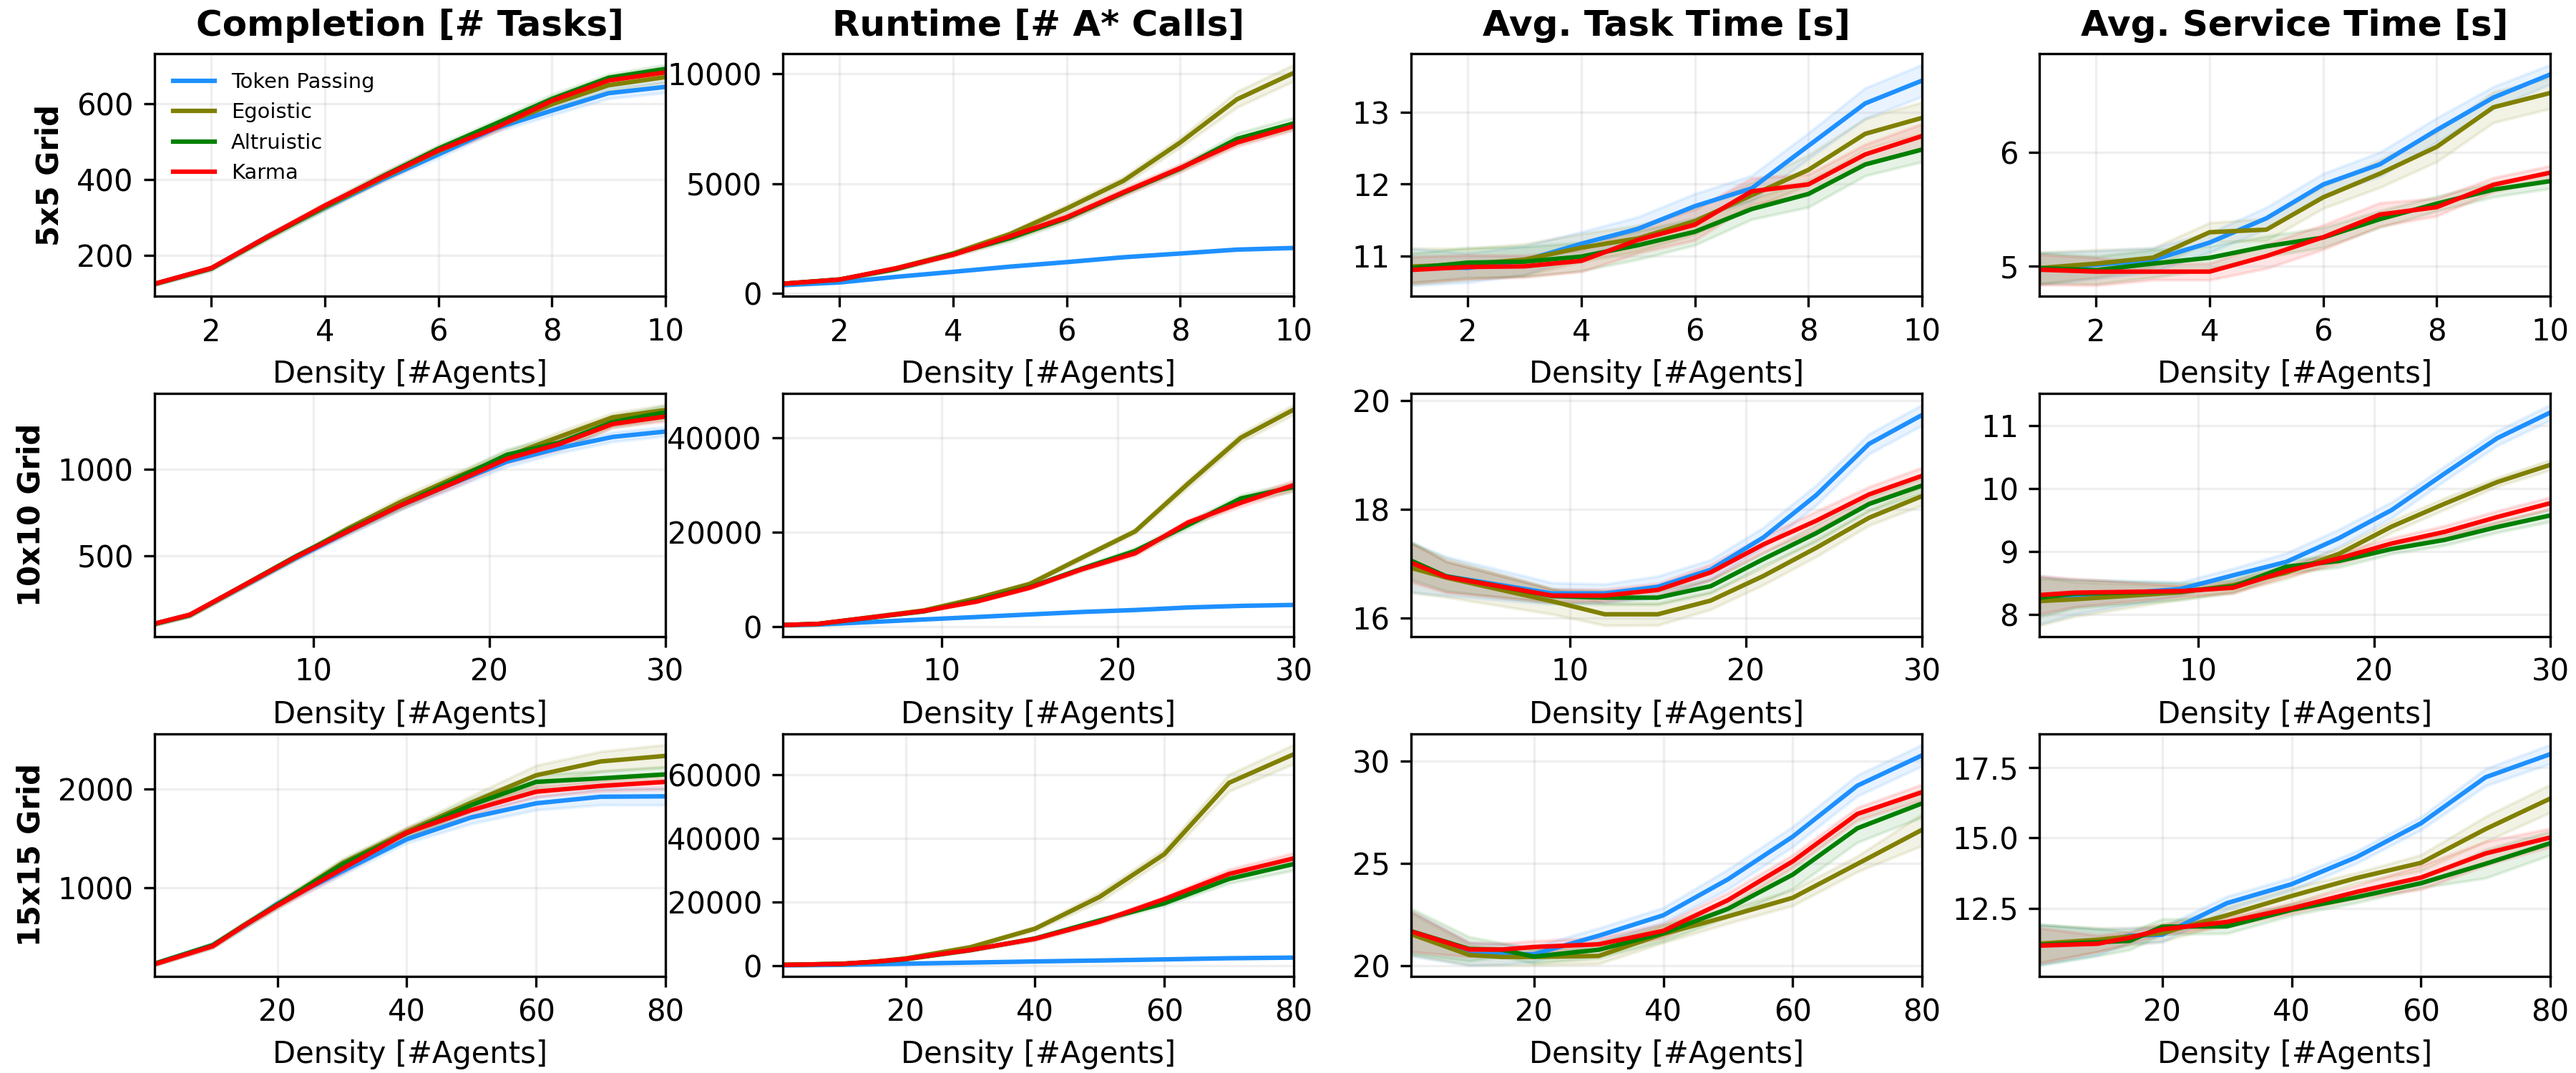
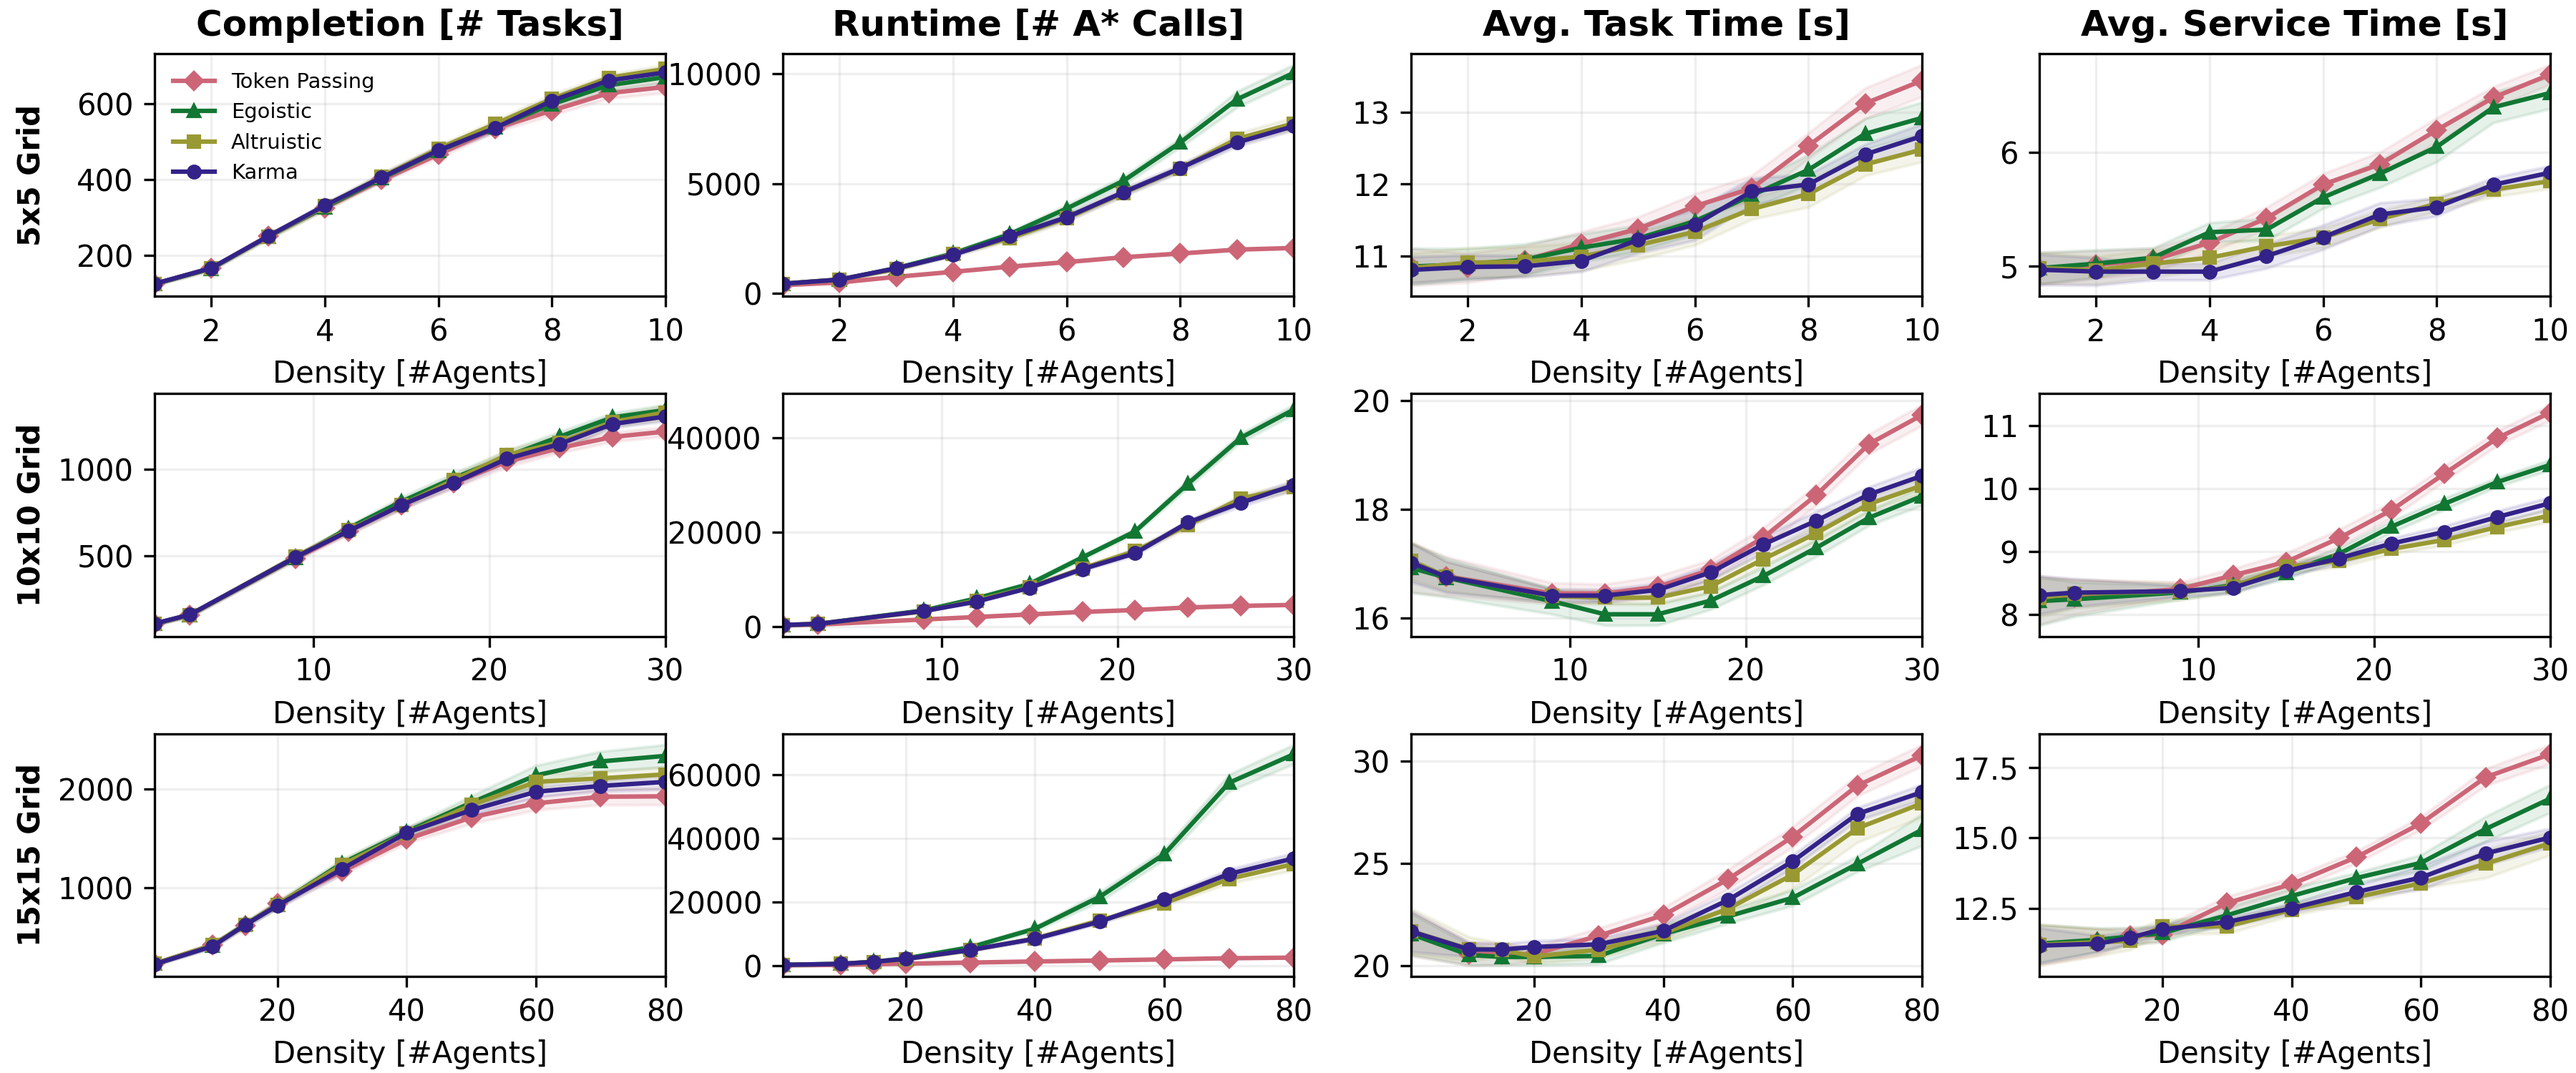
chore: update figures to be compatible with color blindness and black-and-white distinguishability requirements

diff --git a/figures/Figure_2.py b/figures/Figure_2.py
@@ -16,7 +16,10 @@ from pathlib import Path
 
 import matplotlib
 import matplotlib.pyplot as plt
+from matplotlib.colors import to_rgba
 from matplotlib.patches import Patch
+
+from paper_style import CONTROLLER_COLORS, CONTROLLER_HATCHES, CONTROLLER_MARKERS
 
 folder = Path(__file__).resolve().parent.parent / "results" / "time_distribution"
 FIGURE_WIDTH = 6.0
@@ -36,12 +39,9 @@ controller_labels = [
     "Karma",
 ]
 
-controller_colors = [
-    "dodgerblue",
-    "olive",
-    "green",
-    "red",
-]
+controller_colors = [CONTROLLER_COLORS[name] for name in controller_file_names]
+controller_hatches = [CONTROLLER_HATCHES[name] for name in controller_file_names]
+controller_markers = [CONTROLLER_MARKERS[name] for name in controller_file_names]
 
 
 def load_time_values(ftype, controller, grid_size, n_agents):
@@ -64,17 +64,15 @@ def load_grid_data(grid_size, n_agents):
     }
 
 
-def style_boxplot(boxplot, colors, face_mode):
-    for patch, color in zip(boxplot["boxes"], colors):
+def style_boxplot(boxplot, colors, hatches, markers, face_mode):
+    for patch, color, hatch in zip(boxplot["boxes"], colors, hatches):
         patch.set_edgecolor(color)
         patch.set_linewidth(1.5)
+        patch.set_hatch(hatch)
         if face_mode == "filled":
-            patch.set_facecolor(color)
-            patch.set_alpha(0.45)
+            patch.set_facecolor(to_rgba(color, 0.45))
         else:
             patch.set_facecolor("white")
-            patch.set_alpha(1.0)
-            patch.set_hatch("///")
 
     for whisker, color in zip(
         boxplot["whiskers"], [color for color in colors for _ in range(2)]
@@ -84,10 +82,12 @@ def style_boxplot(boxplot, colors, face_mode):
         boxplot["caps"], [color for color in colors for _ in range(2)]
     ):
         cap.set_color(color)
-    for median, color in zip(boxplot["medians"], colors):
-        median.set_color(color)
+    # dark medians stay visible against hatch lines in the box colour
+    for median in boxplot["medians"]:
+        median.set_color("#222222")
         median.set_linewidth(1.5)
-    for flier, color in zip(boxplot["fliers"], colors):
+    for flier, color, marker in zip(boxplot["fliers"], colors, markers):
+        flier.set_marker(marker)
         flier.set_markeredgecolor(color)
         # flier.set_markerfacecolor(color)
         flier.set_alpha(0.7)
@@ -116,8 +116,16 @@ def plot_paired_boxplots(
         manage_ticks=False,
     )
 
-    style_boxplot(task_boxplot, controller_colors, "hatched")
-    style_boxplot(service_boxplot, controller_colors, "filled")
+    style_boxplot(
+        task_boxplot, controller_colors, controller_hatches, controller_markers, "open"
+    )
+    style_boxplot(
+        service_boxplot,
+        controller_colors,
+        controller_hatches,
+        controller_markers,
+        "filled",
+    )
 
     ax.set_ylabel(grid_label, fontweight="bold")
     ax.set_xticks(distribution_positions)
@@ -162,8 +170,10 @@ def main(
     )
 
     legend_handles = [
-        Patch(facecolor=color, edgecolor=color, alpha=0.45, label=label)
-        for color, label in zip(controller_colors, controller_labels)
+        Patch(facecolor=to_rgba(color, 0.45), edgecolor=color, hatch=hatch, label=label)
+        for color, hatch, label in zip(
+            controller_colors, controller_hatches, controller_labels
+        )
     ]
     fig.legend(
         handles=legend_handles,
@@ -174,6 +184,7 @@ def main(
     )
 
     plt.tight_layout(rect=(0.0, 0.05, 1.0, 1.0))
+    fig.align_ylabels()
 
     out_dir = Path(output_dir)
     out_dir.mkdir(parents=True, exist_ok=True)

diff --git a/figures/Figure_1.py b/figures/Figure_1.py
@@ -20,16 +20,18 @@ import pandas as pd
 import matplotlib
 import matplotlib.pyplot as plt
 
+from paper_style import CONTROLLER_COLORS, CONTROLLER_MARKERS
+
 # Constants / data paths
 folder = Path(__file__).resolve().parent.parent / "results" / "efficiency_benchmark"
 FIGURE_WIDTH = 6.0 * 2
 FIGURE_HEIGHT = 5.0
 
 controllers = [
-    ("DECENTRALIZED_TOKEN_PASSING", "Token Passing", "dodgerblue"),
-    ("DECENTRALIZED_NEGOTIATE_EGOISTIC", "Egoistic", "olive"),
-    ("DECENTRALIZED_NEGOTIATE_ALTRUISTIC", "Altruistic", "green"),
-    ("DECENTRALIZED_NEGOTIATE_TRIP_KARMA", "Karma", "red"),
+    ("DECENTRALIZED_TOKEN_PASSING", "Token Passing"),
+    ("DECENTRALIZED_NEGOTIATE_EGOISTIC", "Egoistic"),
+    ("DECENTRALIZED_NEGOTIATE_ALTRUISTIC", "Altruistic"),
+    ("DECENTRALIZED_NEGOTIATE_TRIP_KARMA", "Karma"),
 ]
 
 grid_sizes = ["5", "10", "15"]
@@ -92,7 +94,7 @@ def build_plot_data():
             factor = scale_factors[grid_size][measure_idx]
             controller_dfs = [
                 load_data(grid_size, controller_name, measure, factor)
-                for controller_name, _, _ in controllers
+                for controller_name, _ in controllers
             ]
             plot_data[grid_size].append(controller_dfs)
     return plot_data
@@ -109,12 +111,15 @@ def plot_subplot(ax, controller_dfs, title=None, ylabel=None, show_legend=False)
     ax.set_xlim(controller_dfs[0]["n"].min(), controller_dfs[0]["n"].max())
     ax.margins(x=0)
 
-    for controller_df, (_, label, color) in zip(controller_dfs, controllers):
+    for controller_df, (controller_name, label) in zip(controller_dfs, controllers):
+        color = CONTROLLER_COLORS[controller_name]
         ax.plot(
             controller_df["n"],
             controller_df["mean"],
             label=label,
             color=color,
+            marker=CONTROLLER_MARKERS[controller_name],
+            markersize=4,
         )
         ax.fill_between(
             controller_df["n"],
@@ -153,6 +158,8 @@ def main(
     plt.subplots_adjust(
         top=0.950, bottom=0.090, left=0.060, right=0.990, hspace=0.400, wspace=0.230
     )
+
+    fig.align_ylabels()
 
     out_dir = Path(output_dir)
     out_dir.mkdir(parents=True, exist_ok=True)

diff --git a/figures/Figure_4.py b/figures/Figure_4.py
@@ -20,6 +20,8 @@ from typing import Any, Dict, List
 
 import pandas as pd
 
+from paper_style import CONTROLLER_COLORS, CONTROLLER_MARKERS
+
 FOLDER = (
     Path(__file__).resolve().parent.parent / "results" / "karma_influence_tradeoffs"
 )
@@ -44,13 +46,6 @@ CONTROLLER_LABELS = {
     "DECENTRALIZED_NEGOTIATE_EGOISTIC": "Egoistic",
     "DECENTRALIZED_NEGOTIATE_ALTRUISTIC": "Altruistic",
     "DECENTRALIZED_NEGOTIATE_TRIP_KARMA": "Karma",
-}
-
-CONTROLLER_COLORS = {
-    "DECENTRALIZED_TOKEN_PASSING": "dodgerblue",
-    "DECENTRALIZED_NEGOTIATE_EGOISTIC": "olive",
-    "DECENTRALIZED_NEGOTIATE_ALTRUISTIC": "green",
-    "DECENTRALIZED_NEGOTIATE_TRIP_KARMA": "red",
 }
 
 
@@ -83,7 +78,7 @@ def _plot_metric(
             subset["mean"],
             label=label,
             color=color,
-            marker="o",
+            marker=CONTROLLER_MARKERS[controller],
             linewidth=1.5,
             markersize=4,
         )
@@ -143,6 +138,7 @@ def plot_tradeoffs(
         )
 
         plt.tight_layout(rect=(0.0, 0.05, 1.0, 1.0))
+        fig.align_ylabels()
         safe_metric = metric.replace(" ", "_").replace("%", "perc").replace("/", "-")
 
         out_dir = Path(output_dir)

diff --git a/figures/Figure_3.py b/figures/Figure_3.py
@@ -19,6 +19,8 @@ from pathlib import Path
 
 import pandas as pd
 
+from paper_style import CONTROLLER_COLORS, CONTROLLER_MARKERS
+
 folder = Path(__file__).resolve().parent.parent / "results" / "karma_influence"
 FIGURE_WIDTH = 6.0 * 2
 FIGURE_HEIGHT = 3.0
@@ -35,14 +37,6 @@ CONTROLLER_LABELS = {
     "DECENTRALIZED_NEGOTIATE_EGOISTIC": "Egoistic",
     "DECENTRALIZED_NEGOTIATE_ALTRUISTIC": "Altruistic",
     "DECENTRALIZED_NEGOTIATE_TRIP_KARMA": "Karma",
-}
-
-# Match Figure_2 palette
-CONTROLLER_COLORS = {
-    "DECENTRALIZED_TOKEN_PASSING": "dodgerblue",
-    "DECENTRALIZED_NEGOTIATE_EGOISTIC": "olive",
-    "DECENTRALIZED_NEGOTIATE_ALTRUISTIC": "green",
-    "DECENTRALIZED_NEGOTIATE_TRIP_KARMA": "red",
 }
 
 
@@ -92,9 +86,8 @@ def plot_influences(
                 subset["mean"],
                 label=label,
                 color=color,
-                # marker="o",
-                # linewidth=1.5,
-                # markersize=4,
+                marker=CONTROLLER_MARKERS[controller],
+                markersize=4,
             )
             if "std" in subset.columns:
                 ax.fill_between(

diff --git a/figures/paper_style.py b/figures/paper_style.py
@@ -1,0 +1,28 @@
+"""Shared controller styles for the paper figures.
+
+The colours are Paul Tol's muted scheme, which stays distinguishable under deuteranopia,
+protanopia and tritanopia. Four colours cannot all differ in grey tone, so every controller also
+has its own marker and hatch for greyscale prints. Karma gets the darkest colour; Karma and
+Altruistic, the pair compared most, are furthest apart in lightness.
+"""
+
+CONTROLLER_COLORS = {
+    "DECENTRALIZED_TOKEN_PASSING": "#CC6677",
+    "DECENTRALIZED_NEGOTIATE_EGOISTIC": "#117733",
+    "DECENTRALIZED_NEGOTIATE_ALTRUISTIC": "#999933",
+    "DECENTRALIZED_NEGOTIATE_TRIP_KARMA": "#332288",
+}
+
+CONTROLLER_MARKERS = {
+    "DECENTRALIZED_TOKEN_PASSING": "D",
+    "DECENTRALIZED_NEGOTIATE_EGOISTIC": "^",
+    "DECENTRALIZED_NEGOTIATE_ALTRUISTIC": "s",
+    "DECENTRALIZED_NEGOTIATE_TRIP_KARMA": "o",
+}
+
+CONTROLLER_HATCHES = {
+    "DECENTRALIZED_TOKEN_PASSING": "xxx",
+    "DECENTRALIZED_NEGOTIATE_EGOISTIC": "\\\\\\",
+    "DECENTRALIZED_NEGOTIATE_ALTRUISTIC": "///",
+    "DECENTRALIZED_NEGOTIATE_TRIP_KARMA": "",
+}

diff --git a/.serena/memories/simulation/negotiation.md b/.serena/memories/simulation/negotiation.md
@@ -12,8 +12,12 @@
 | `DECENTRALIZED_NEGOTIATE_EGOISTIC2` / `ALTRUISTIC2` | – | egoistic/altruistic on the relative-deviation cost transform | no (ALTRUISTIC2 only in analysis_2 logs + legacy sweep) |
 | `CENTRALIZED` | CBS (§II-B only) | `Planner_CBS` (`mem:simulation/core`) | no |
 
-The figures use a fixed label and colour for each paper controller: Token Passing `dodgerblue`,
-Egoistic `olive`, Altruistic `green`, Karma `red`. Keep them identical across `figures/`. The
+The figures use a fixed label and style for each paper controller. Colours (Paul Tol muted) plus
+marker / hatch live in `figures/paper_style.py`: Token Passing rose `#CC6677` `D` `xxx`, Egoistic
+green `#117733` `^` `\\\`, Altruistic olive `#999933` `s` `///`, Karma indigo `#332288` `o` no
+hatch (darkest). All lines stay solid (a deliberate choice: mixed dash patterns looked
+inconsistent). The set is colour-blind safe (AAMAS rule), and the markers and hatches keep it
+readable in greyscale. Keep them identical across `figures/`. The
 old name `DECENTRALIZED_RESPECT` (still in some archived run files) is token passing.
 
 ## Negotiation protocol (`handle_agents_route_planning_decentralized_negotiate`, paper Alg. 1)

diff --git a/.serena/memories/conventions.md b/.serena/memories/conventions.md
@@ -50,8 +50,13 @@ error messages, same import order. Deviating "because it is cleaner" is a defect
   `src/scripts/` command that produces them and the constants to set per run.
 - Module-level data folder and style constants, `main(output_dir, show)`, and argparse
   `--output-dir/-o` plus `--no-show`. They switch to Agg when headless.
-- The label and colour for each controller are fixed (`mem:simulation/negotiation`). Reuse them
-  verbatim.
+- The label for each controller is fixed (`mem:simulation/negotiation`); reuse it verbatim. Colour,
+  marker and hatch come only from `figures/paper_style.py` (`from paper_style import ...`,
+  which resolves because the scripts run as `python figures/Figure_N.py`). Every series needs a
+  non-colour cue (a marker on lines, a hatch on boxes) so it survives greyscale printing. Lines
+  all stay solid; do not add per-controller dash patterns.
+- Figures with y-labels on stacked panels call `fig.align_ylabels()` after the layout step
+  (`subplots_adjust` / `tight_layout`), so the labels line up despite different tick widths.
 - A new figure script must also be added to `.github/workflows/figure-plots.yml`.
 
 ## Comments

diff --git a/.serena/memories/core.md b/.serena/memories/core.md
@@ -23,6 +23,7 @@ Not a library: there is no `pyproject.toml` / `setup.py`, nothing is installed, 
 | `src/planners/assignment.py` | Hungarian agent↔task assignment (`scipy.optimize.linear_sum_assignment`) |
 | `src/scripts/` | entry points: the four analyses and the legacy sweep (`mem:analysis_and_figures`), `visualize_simulation` (GIF rendering) and `performance_tracking` (quick 10-seed printout) |
 | `figures/Figure_N.py` | paper figures, rendered from `results/<analysis>/` to `figures/Figure_N.png`; CI renders them |
+| `figures/paper_style.py` | the shared controller colours, markers and hatches (colour-blind and greyscale safe) |
 | `results/<analysis>/` | committed analysis outputs, i.e. the figure inputs; one folder per analysis script, named after it |
 | `results/animations/` | committed README GIFs; `visualize_simulation` writes here |
 | `results/runs/` | git-ignored; every script's automatic intermediate output (per-seed JSONs, txt reports, GIF frames, sweep cache) |

diff --git a/.serena/memories/open_issues.md b/.serena/memories/open_issues.md
@@ -30,3 +30,13 @@ them must not add them to any analysis or figure.
   invocation (`mem:analysis_and_figures`).
 - The TRIP_KARMA reset compares `settings["mapf_control"]` with a string literal instead of
   `MAPF_CONTROLLER_DECENTRALIZED_NEGOTIATE_TRIP_KARMA`.
+- `Figure_4` (supplementary): the long metric names used as y-labels overlap between its stacked
+  subplots. This is a layout issue, not a styling one.
+
+## Paper text vs figure style (outside this repo)
+
+The figures use a colour-blind and greyscale safe style (`figures/paper_style.py`,
+`mem:simulation/negotiation`). The LaTeX sources are not in this repo, so their captions and body
+text have not been checked for references to colour names from an earlier palette ("red",
+"green", "blue", "olive"). The authors must check the `.tex` by hand and make one real
+black-and-white print of the compiled PDF.

diff --git a/.serena/memories/analysis_and_figures.md b/.serena/memories/analysis_and_figures.md
@@ -52,6 +52,10 @@ efficiency_benchmark JSON: `{grid: {CTRL: {n_agents: {metric: [mean, std, median
 - Figure_1: a 3×4 grid (rows: grids 5/10/15; cols: completed tasks, A* calls, avg task time, avg
   service time). It smooths with a centred rolling median (window 3) and multiplies completed tasks
   and A* calls by the hard-coded per-grid `scale_factors`. Keep these unless told otherwise.
+- All four share `figures/paper_style.py` for the controller styles (`mem:conventions`).
+  The before/after evidence for that style (colour-blindness and greyscale previews, the raw
+  renders, `palette_report.txt`) is kept in the git-ignored `results/archive/a11y_showcase/`. The
+  script that produced it is deliberately not in the repo.
 - CI (`figure-plots.yml`) renders all four and asserts `Figure_1..3.png` plus at least one
   `Figure_tradeoff_*.png`.
 
